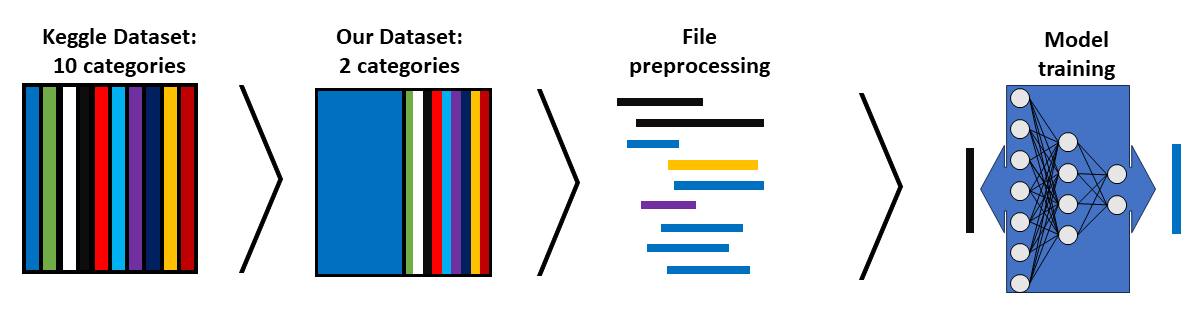
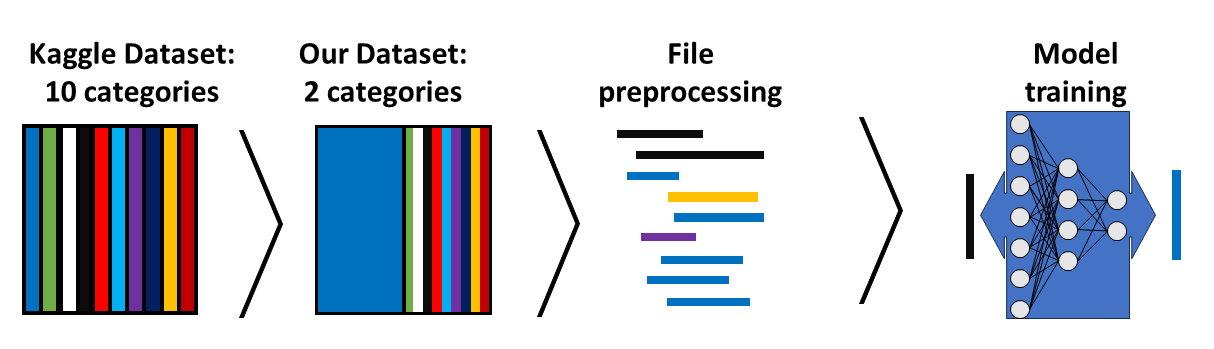
image resize

diff --git a/index.md b/index.md
@@ -6,7 +6,7 @@
 
 [Reducing Emissions in Car Carriers: An AI-Based Alert System](/sounds_classification.md)
 [Github repository](https://github.com/giacomo-lab/sounds_classification)
-<img src="images/title_image_sound_classification.png?raw=true"/>
+<img src="images/sound_classification/title_image_sound_classification.png?raw=true"/>
 
 ---
 
